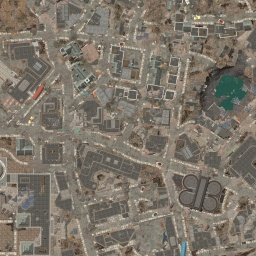
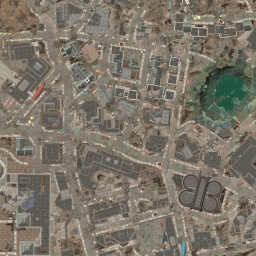
fixed minimum score and slight map tweak

Changed region(s): [[0.7812, 0.3125, 1.0, 0.5], [0.7812, 0.2812, 0.8125, 0.3438], [0.7812, 0.4375, 0.8125, 0.4688]]

diff --git a/main.js b/main.js
@@ -416,6 +416,13 @@ function confirmGuess()
     }
 
     //check if game is over
+    if (score < gameParameters.minPassingScore)
+    {
+        //didn't get enough points to pass the round
+        gameOver(1);
+        return;
+    }
+
     if (gameParameters.showRemainingRounds)
     {
         //in a mode with non-unlimited rounds (i.e. not survival or endless)
@@ -427,17 +434,12 @@ function confirmGuess()
             gameOver(0);
         }
     }
-    else if (score < gameParameters.minPassingScore)
-    {
-        //didn't get enough points to pass the round
-        gameOver(1);
-    }
     else if (gameParameters.survival && roundNumber == gameParameters.rounds)
     {
         //in survival mode, completed all rounds
         gameOver(2);
     }
-    else if(gameParameters.survival && totalScore <= 0)
+    else if (gameParameters.survival && totalScore <= 0)
     {
         //score decayed to 0
         gameOver(3);
